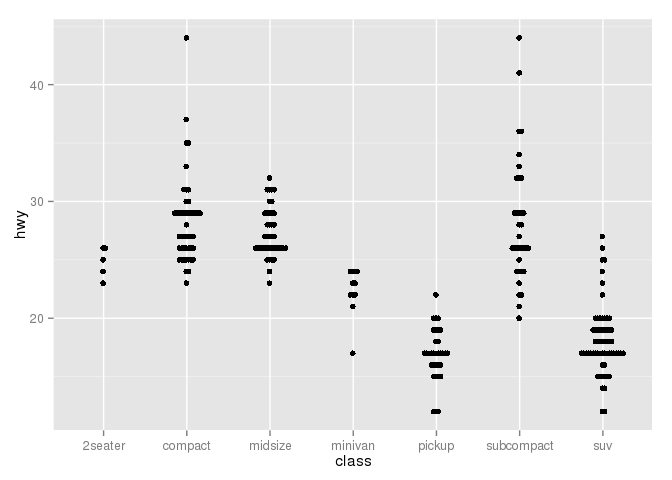
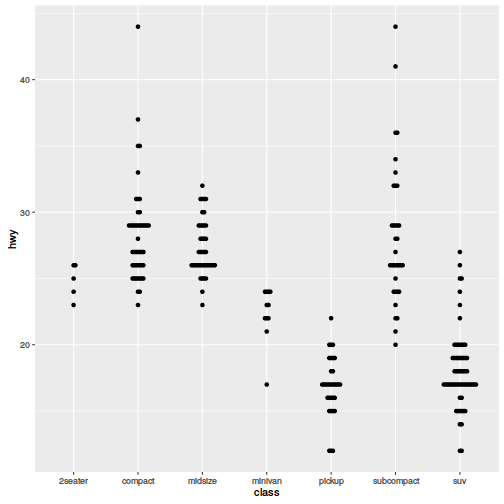
Move readme examples to geom

diff --git a/README.md b/README.md
@@ -3,11 +3,11 @@
 ## Introduction
 Beeswarm plots (aka column scatter plots or violin scatter plots) are a way of plotting points that would ordinarily overlap so that they fall next to each other instead. In addition to reducing overplotting, it helps visualize the density of the data at each point (similar to a violin plot), while still showing each data point individually.
 
-`ggbeeswarm` provides two different methods to create beeswarm-style plots using [ggplot2](http://ggplot2.org). It does this by adding two new ggplot Position objects:
+`ggbeeswarm` provides two different methods to create beeswarm-style plots using [ggplot2](http://ggplot2.org). It does this by adding two new ggplot Geom objects:
 
-- `position_quasirandom`: Uses a [van der Corput sequence](http://en.wikipedia.org/wiki/Van_der_Corput_sequence) to space the dots to avoid overplotting. This uses [sherrillmix/vipor](https://github.com/sherrillmix/vipor).
+- `geom_quasirandom`: Uses a [van der Corput sequence](http://en.wikipedia.org/wiki/Van_der_Corput_sequence) to space the dots to avoid overplotting. This uses [sherrillmix/vipor](https://github.com/sherrillmix/vipor).
 
-- `position_beeswarm`: Uses the [beeswarm](https://cran.r-project.org/web/packages/beeswarm/index.html) library to do point-size based offset. 
+- `geom_beeswarm`: Uses the [beeswarm](https://cran.r-project.org/web/packages/beeswarm/index.html) library to do point-size based offset. 
 
 See the examples below.
 
@@ -22,79 +22,76 @@ devtools::install_github("eclarke/ggbeeswarm")
 
 ## Examples
 
-### position_quasirandom()
+### geom_quasirandom()
 
-Using `position_quasirandom`:
+Using `geom_quasirandom`:
 
 ```r
 set.seed(12345)
-library(ggbeeswarm)
 library(ggplot2)
-qplot(Species, Sepal.Length, data=iris, position=position_quasirandom())
+library(ggbeeswarm)
+qplot(Species, Sepal.Length, data=iris)+ geom_quasirandom()
 ```
 
-![](README_files/figure-html/ggplot2-examples-1.png) 
+![plot of chunk ggplot2-examples](README_files/figure-html/ggplot2-examples-1.png) 
 
 ```r
-qplot(class, hwy, data=mpg, position=position_quasirandom())
+qplot(class, hwy, data=mpg, geom="quasirandom")
 ```
 
-![](README_files/figure-html/ggplot2-examples-2.png) 
+![plot of chunk ggplot2-examples](README_files/figure-html/ggplot2-examples-2.png) 
 
 ```r
 # With categorical y-axis
-qplot(hwy, class, data=mpg, position=position_quasirandom())
+qplot(hwy, class, data=mpg, geom='quasirandom')
 ```
 
-![](README_files/figure-html/ggplot2-examples-3.png) 
+![plot of chunk ggplot2-examples](README_files/figure-html/ggplot2-examples-3.png) 
 
 ```r
 # Some groups may have only a few points. Use `varwidth=TRUE` to adjust width dynamically.
-qplot(class, hwy, data=mpg, position=position_quasirandom(varwidth = TRUE))
+qplot(class, hwy, data=mpg) + geom_quasirandom(varwidth = TRUE)
 ```
 
-![](README_files/figure-html/ggplot2-examples-4.png) 
+![plot of chunk ggplot2-examples](README_files/figure-html/ggplot2-examples-4.png) 
 
-### position_beeswarm()
+### geom_beeswarm()
 
-Using `position_beeswarm`:
+Using `geom_beeswarm`:
 
 ```r
-library(ggbeeswarm)
-library(ggplot2)
-
-qplot(Species, Sepal.Length, data=iris, position=position_beeswarm())
+qplot(Species, Sepal.Length, data=iris) + geom_beeswarm()
 ```
 
-![](README_files/figure-html/ggplot2-beeswarm-1.png) 
+![plot of chunk ggplot2-beeswarm](README_files/figure-html/ggplot2-beeswarm-1.png) 
 
 ```r
-qplot(class, hwy, data=mpg, position=position_beeswarm())
+qplot(class, hwy, data=mpg, geom='beeswarm')
 ```
 
-![](README_files/figure-html/ggplot2-beeswarm-2.png) 
+![plot of chunk ggplot2-beeswarm](README_files/figure-html/ggplot2-beeswarm-2.png) 
 
 ```r
 # With categorical y-axis
-qplot(hwy, class, data=mpg, position=position_quasirandom())
+qplot(hwy, class, data=mpg, geom='beeswarm')
 ```
 
-![](README_files/figure-html/ggplot2-beeswarm-3.png) 
+![plot of chunk ggplot2-beeswarm](README_files/figure-html/ggplot2-beeswarm-3.png) 
 
 ```r
 # ggplot doesn't pass any information about the actual device size of the points
 # to the underlying layout code, so it's important to manually adjust the `cex` 
 # parameter for best results
-qplot(class, hwy, data=mpg, position=position_beeswarm(priority = 'density', cex=5))
+qplot(class, hwy, data=mpg)+ geom_beeswarm(cex=5)
 ```
 
-![](README_files/figure-html/ggplot2-beeswarm-4.png) 
+![plot of chunk ggplot2-beeswarm](README_files/figure-html/ggplot2-beeswarm-4.png) 
 
 ```r
-qplot(Species, jitter(Sepal.Length), data=iris, position=position_beeswarm(cex=4))
+qplot(Species, Sepal.Length, data=iris) +geom_beeswarm(cex=4,priority='density')
 ```
 
-![](README_files/figure-html/ggplot2-beeswarm-5.png) 
+![plot of chunk ggplot2-beeswarm](README_files/figure-html/ggplot2-beeswarm-5.png) 
 
 
 ------
